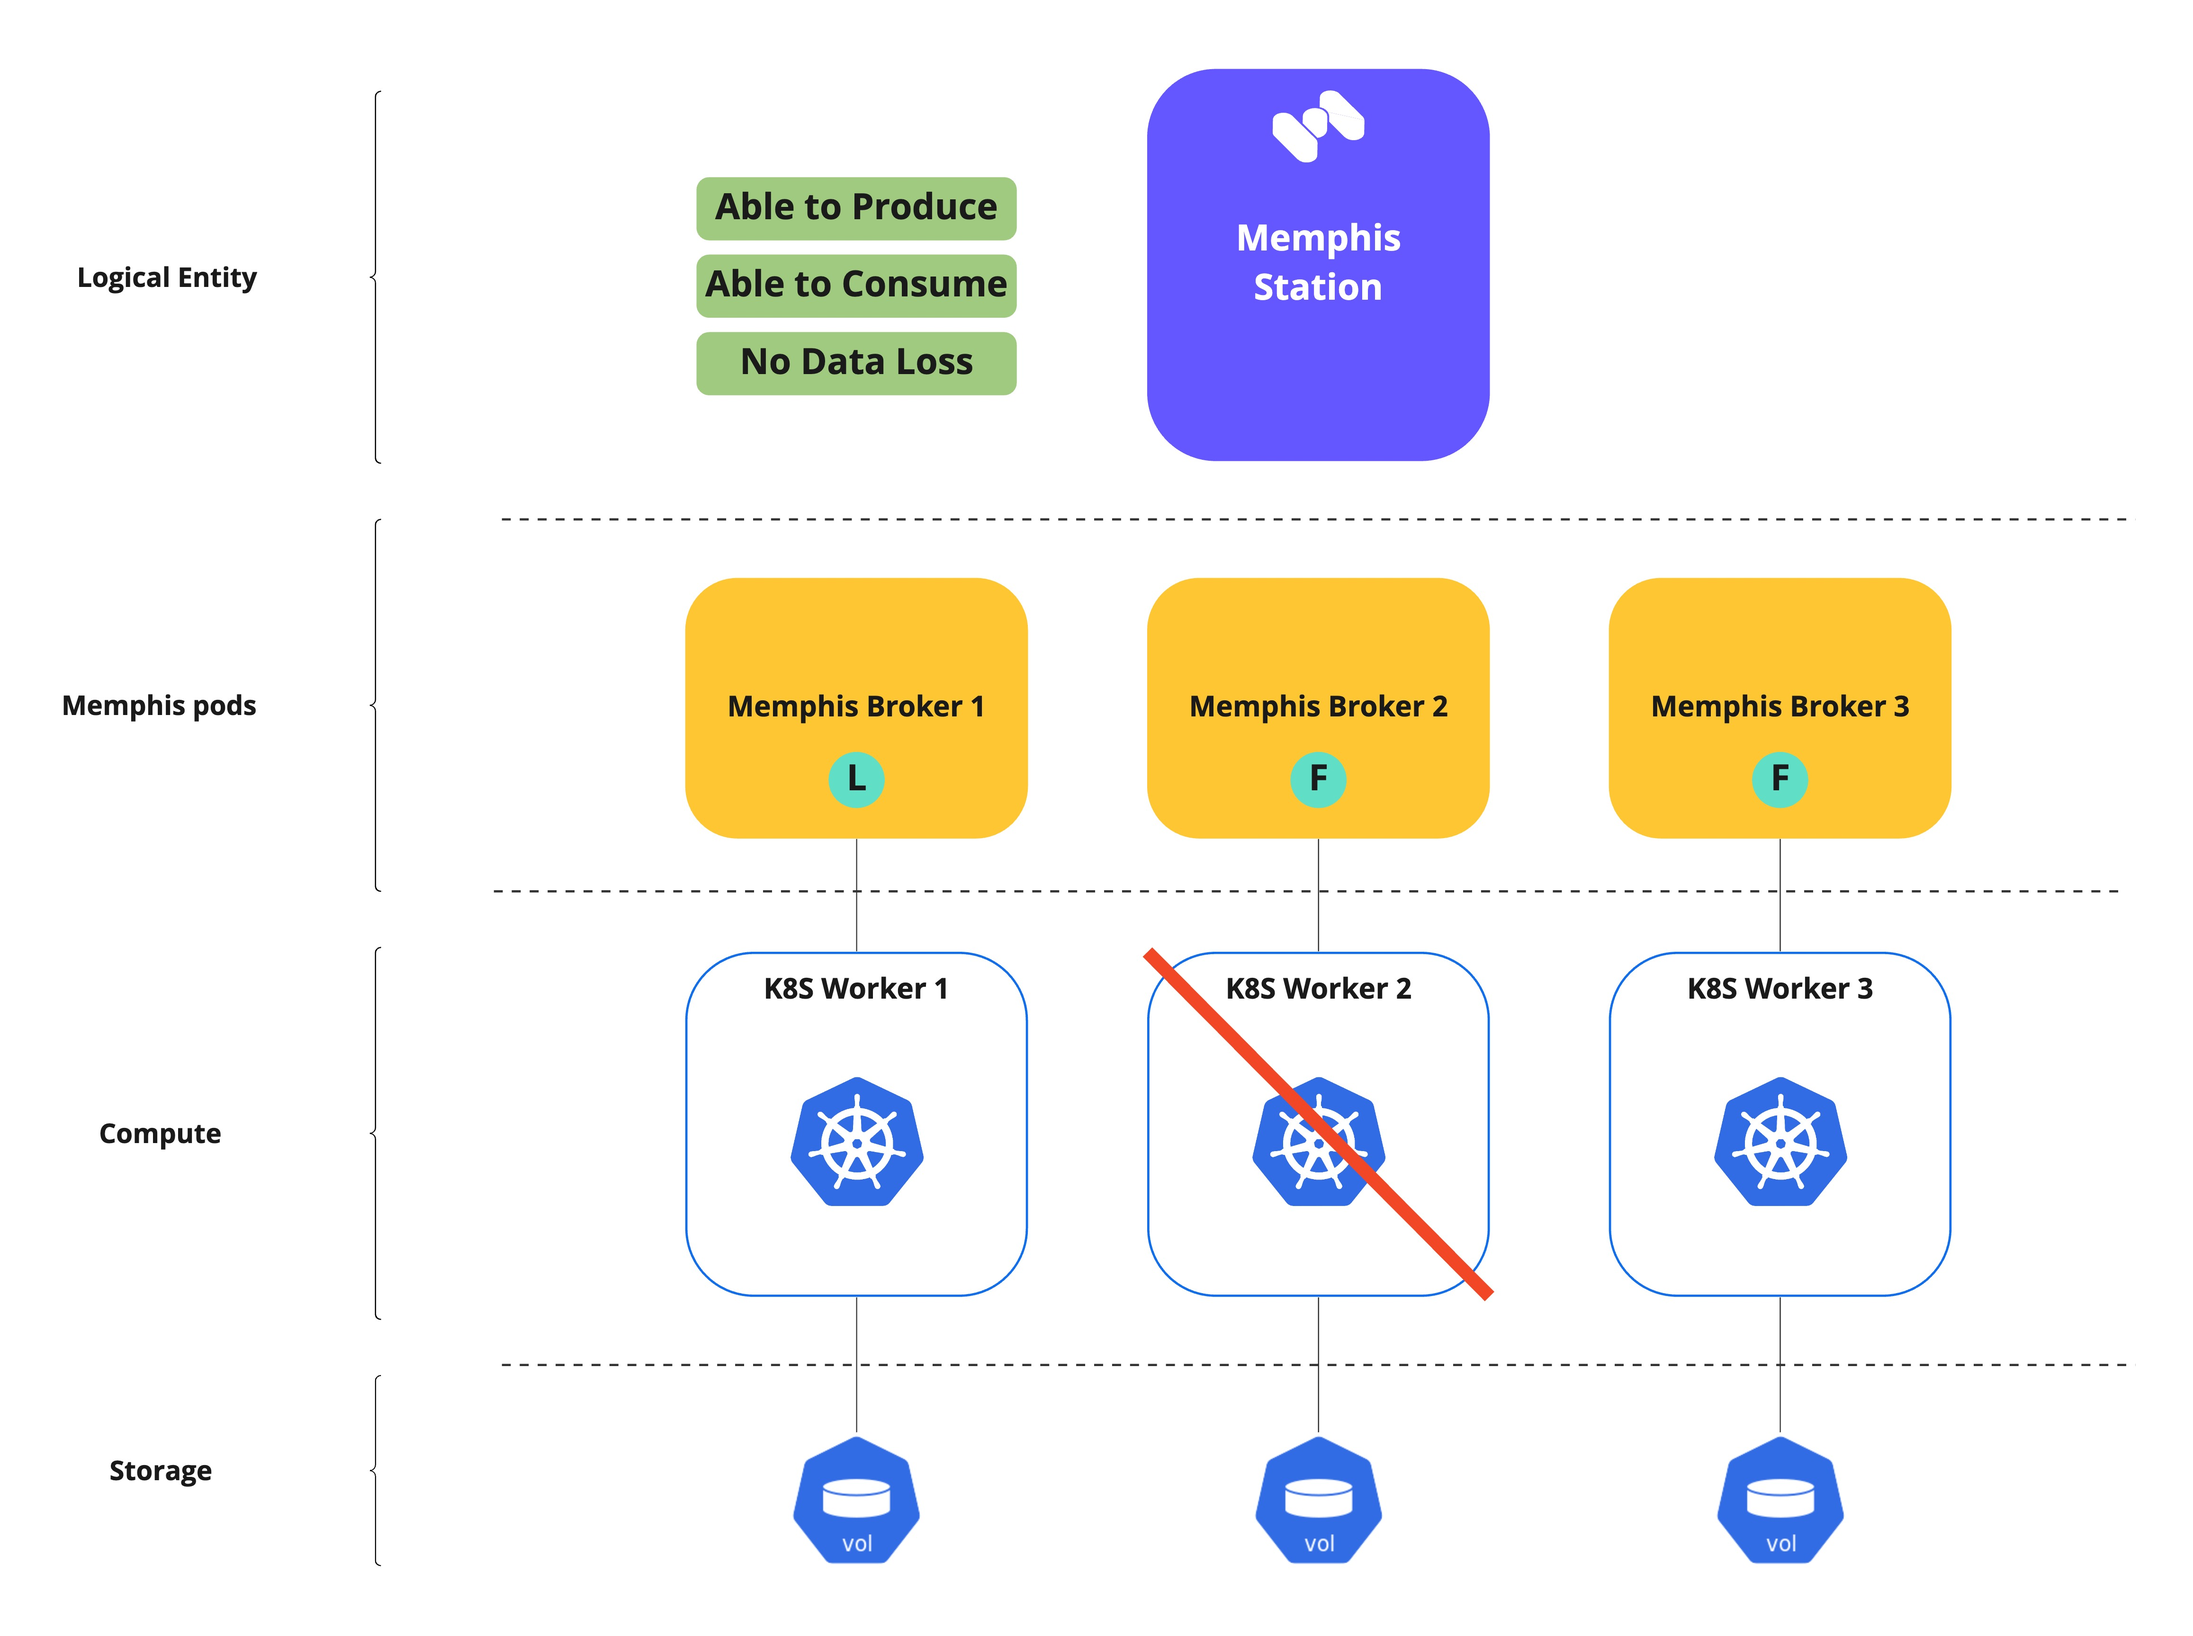
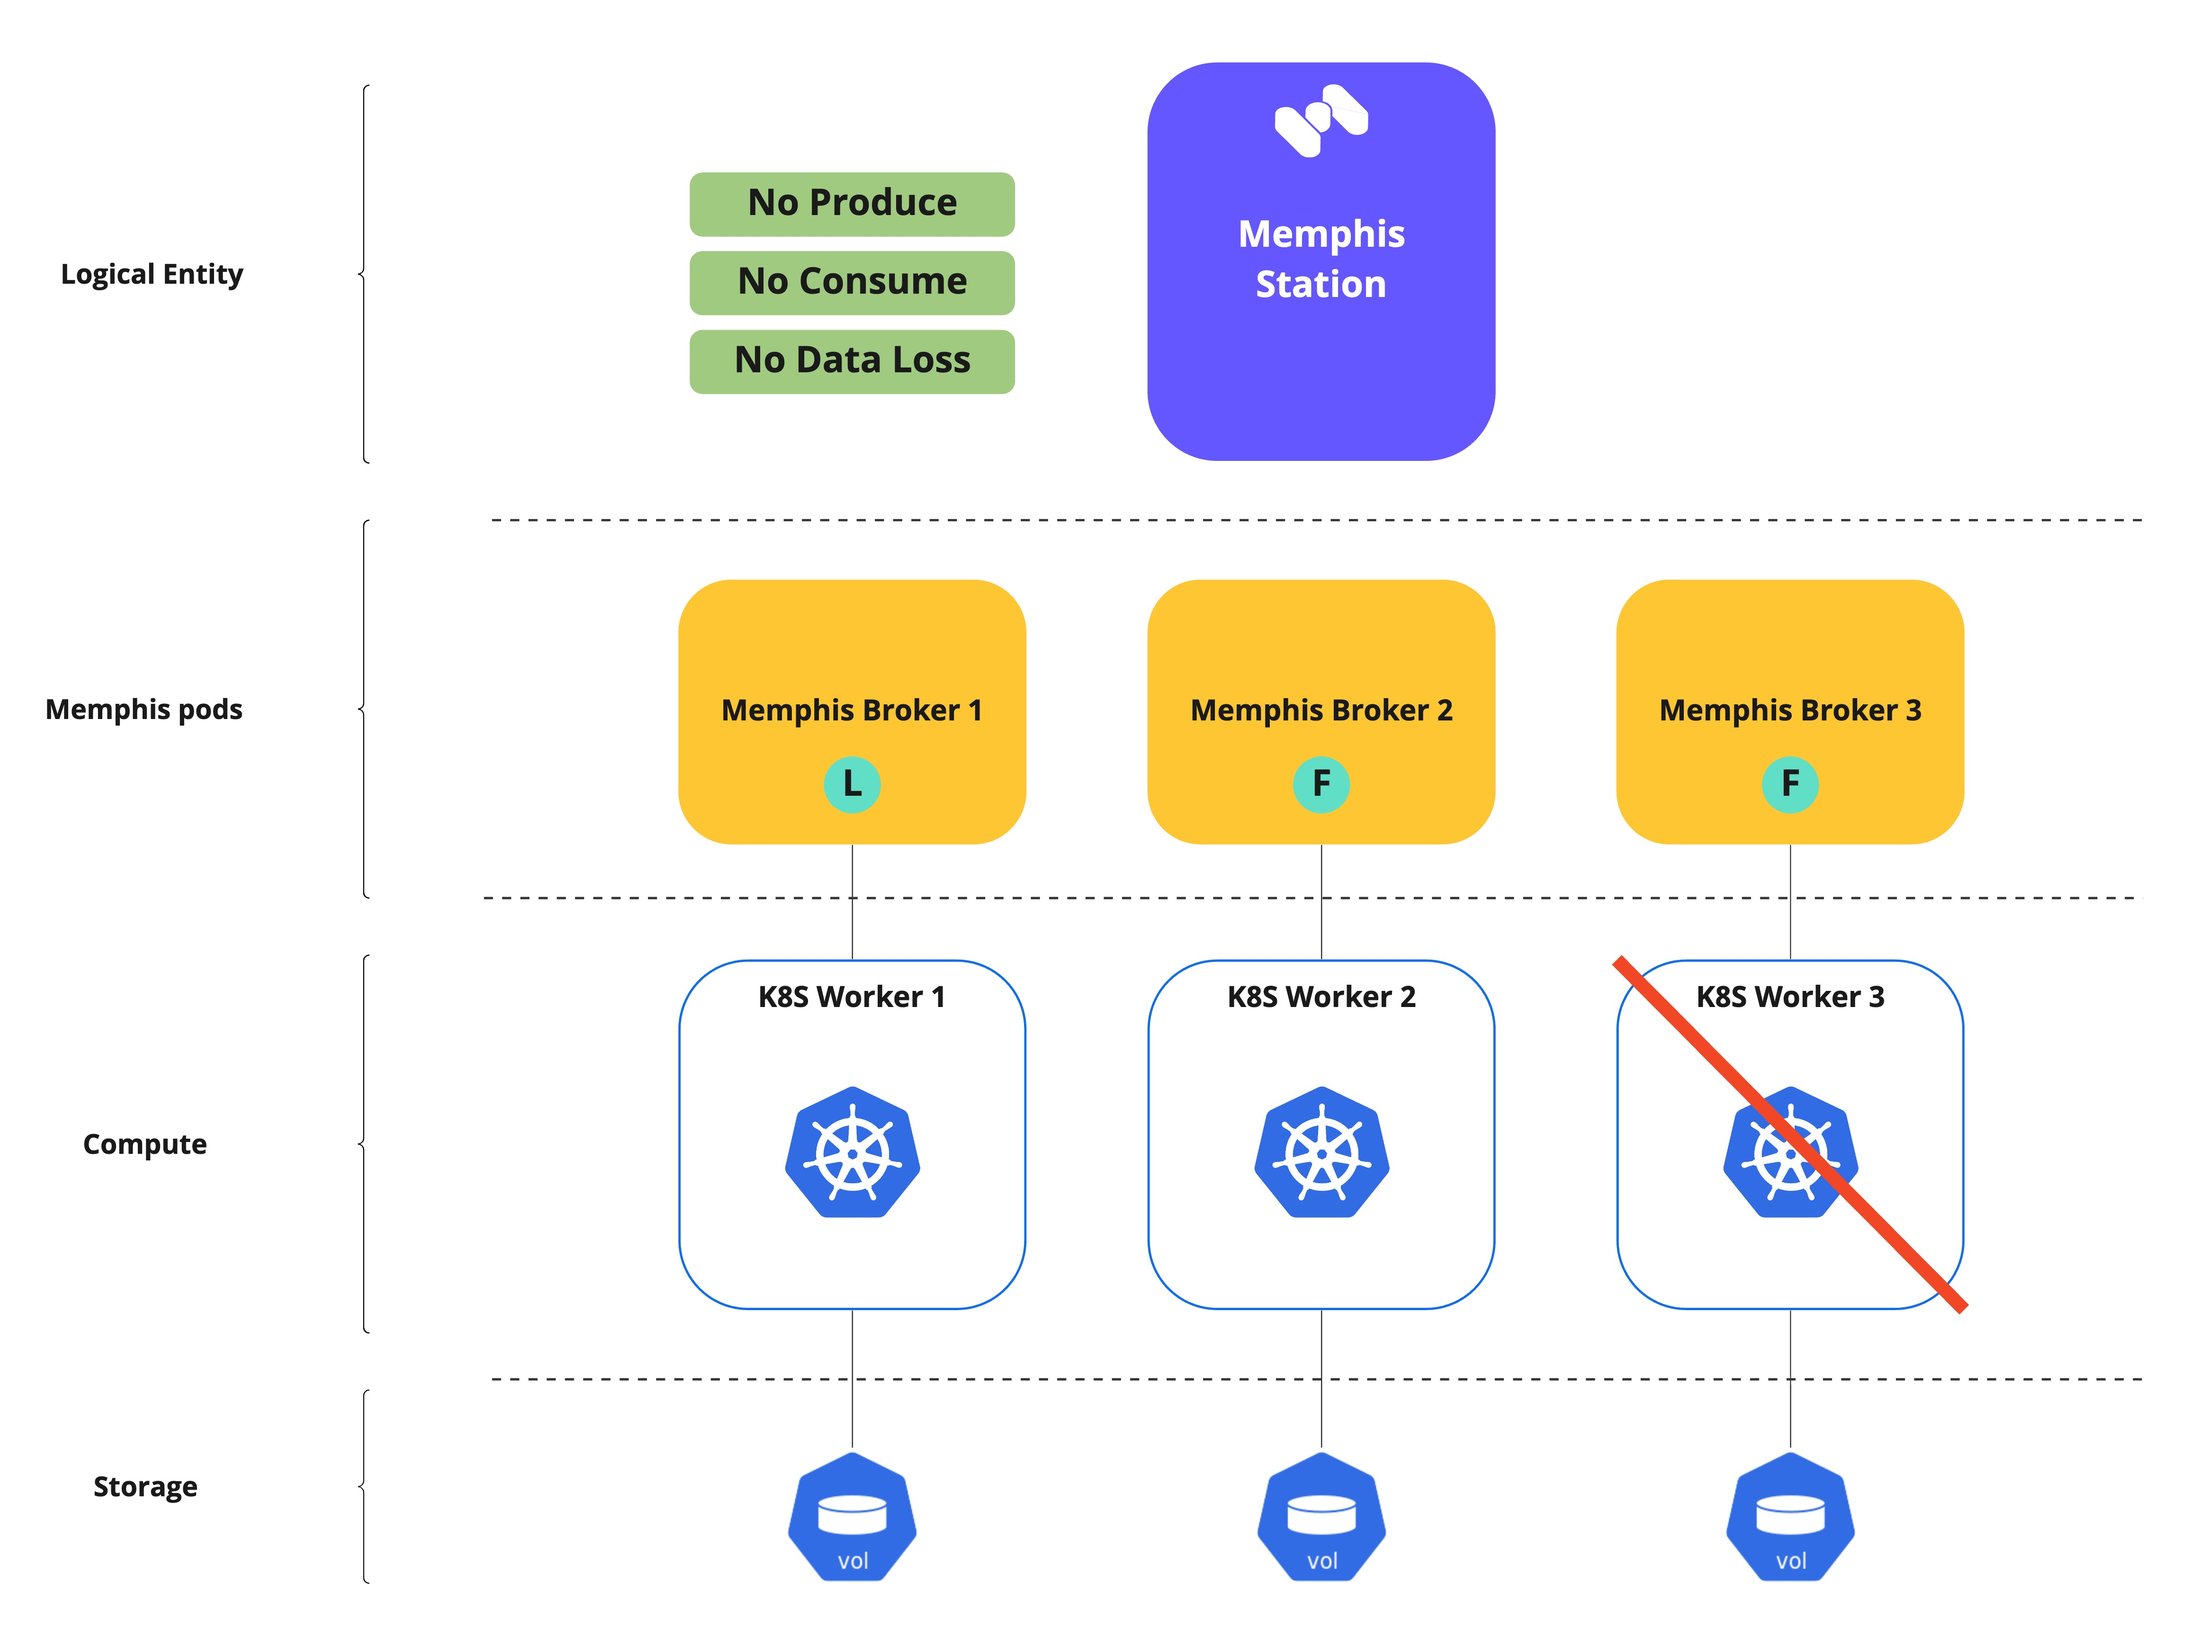
GitBook: [#602] No subject

diff --git a/memphis/failure-scenarios.md b/memphis/failure-scenarios.md
@@ -26,7 +26,7 @@ Single broker failure, leader or follower. Produce / Consume is working usually.
 
 <div>
 
-<figure><img src="../.gitbook/assets/broker 1.jpeg" alt=""><figcaption><p>Broker 2 is down</p></figcaption></figure>
+<figure><img src="../.gitbook/assets/broker 1 (1).jpeg" alt=""><figcaption><p>Broker 2 is down</p></figcaption></figure>
 
  
 
@@ -65,11 +65,11 @@ Produce / Consume is working usually. No data loss.
 
 <div>
 
-<figure><img src="../.gitbook/assets/k8s 1 (2).jpeg" alt=""><figcaption></figcaption></figure>
+<figure><img src="../.gitbook/assets/k8s 1 (1).jpeg" alt=""><figcaption></figcaption></figure>
 
  
 
-<figure><img src="../.gitbook/assets/k8s 2 (2).jpeg" alt=""><figcaption></figcaption></figure>
+<figure><img src="../.gitbook/assets/k8s 2.jpeg" alt=""><figcaption></figcaption></figure>
 
 </div>
 
@@ -77,7 +77,7 @@ The kubernetes worker that holds the "leader" is down.\
 The "leader" role has been taken over by broker 2.\
 Producers / Consumers will might require a reconnect. No data loss.
 
-<figure><img src="../.gitbook/assets/k8s 3.jpeg" alt=""><figcaption></figcaption></figure>
+<figure><img src="../.gitbook/assets/k8s 3 (1).jpeg" alt=""><figcaption></figcaption></figure>
 
 The kubernetes workers that hold the "followers"/"Leader and a follower" are down.\
 No quorum for stream. No cluster leader. The station is temporarily unavailable.\
@@ -93,9 +93,35 @@ Produce/Consume will be stopped until at least one replica/follower is available
 
 </div>
 
-The Kubernetes cluster is down, and therefore the Memphis cluster is down as well.
+The Kubernetes cluster is down; therefore, the Memphis cluster is down.
 
 Produce/Consume will be stopped until at least one leader and replica/follower are available. No data loss.
 
 <figure><img src="../.gitbook/assets/k8s 6.jpeg" alt=""><figcaption></figcaption></figure>
 
+### 3. Kubernetes volumes (PVC)
+
+One of the K8S worker's PVs owned by one of the followers is down.
+
+The affected broker and PV require a manual restart.
+
+<div>
+
+<figure><img src="../.gitbook/assets/pv1.jpeg" alt=""><figcaption></figcaption></figure>
+
+ 
+
+<figure><img src="../.gitbook/assets/pv2.jpeg" alt=""><figcaption></figcaption></figure>
+
+</div>
+
+The leader's storage is down.\
+Data may not be available during the new leader election process.\
+Producing messages is suspended until a new leader is elected.\
+The affected broker and PV require a manual restart.
+
+<figure><img src="../.gitbook/assets/pv3.jpeg" alt=""><figcaption></figcaption></figure>
+
+* No quorum for stream
+* No cluster leader
+* Jetstrem temporarily unavailable
